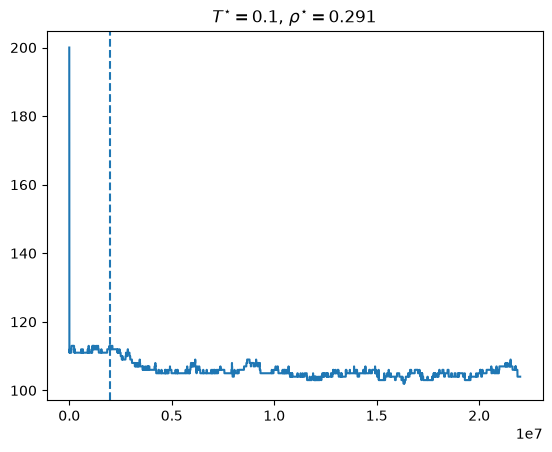
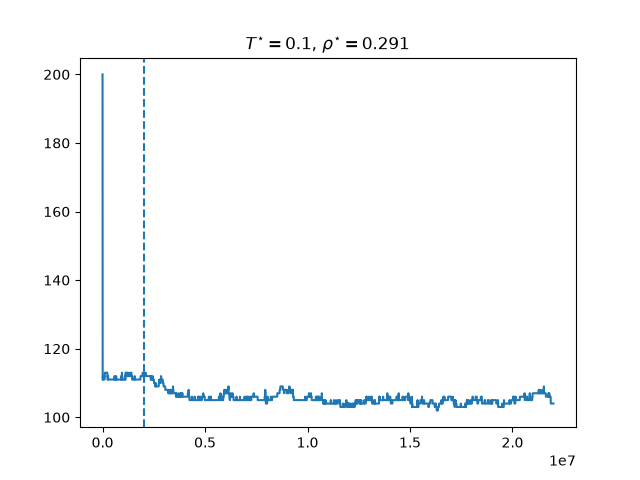
chore: generate visualization outputs

diff --git a/Project01/code/visualize.py b/Project01/code/visualize.py
@@ -57,7 +57,7 @@ def draw_energy(results, path_template):
                      fr"$\rho^{{\star}} = {rho_star}$")
 
         path = path_template.format(rho_star=rho_star, T_star=T_star)
-        fig.savefig(path)
+        fig.savefig(path, dpi=300, bbox_inches="tight", pad_inches=0.02)
 
         plt.show()
 
@@ -74,7 +74,7 @@ def draw_configs(results, path_template):
         ax.set_aspect("equal")
 
         path = path_template.format(rho_star=rho_star, T_star=T_star)
-        fig.savefig(path)
+        fig.savefig(path, dpi=300, bbox_inches="tight", pad_inches=0.02)
 
         plt.show()
 
@@ -178,7 +178,7 @@ for result in density_results:
     ax.set_ylabel(r"$g(r)$")
 
     output_path = f"../results/density/rho_{rho_star}/gr_rho_{rho_star}.png"
-    fig.savefig(output_path)
+    fig.savefig(output_path, dpi=300, bbox_inches="tight", pad_inches=0.02)
     plt.show()
 
 # %% Draw animation
@@ -224,7 +224,7 @@ ax.set_ylabel(r"Specific heat, $C_V$")
 ax.set_title(r"Thermodynamic properties at density $\rho^{\star}$ = 0.291")
 
 output_path = "../results/temperature/Cv.png"
-fig.savefig(output_path)
+fig.savefig(output_path, dpi=300, bbox_inches="tight", pad_inches=0.02)
 
 plt.show()
 
